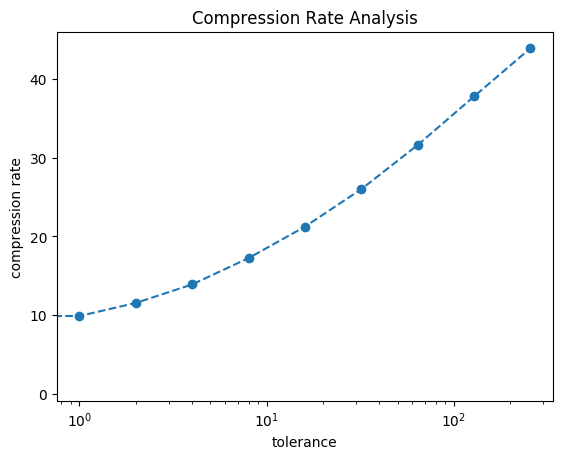
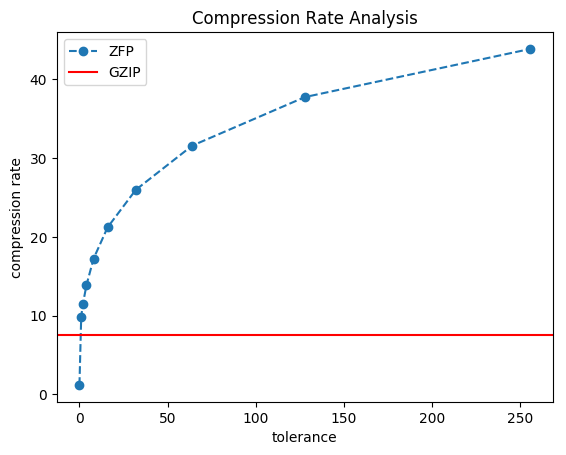
Add GZIP compression rate as reference

diff --git a/exercise10/mpi_compression/compression_rates.py b/exercise10/mpi_compression/compression_rates.py
@@ -11,8 +11,10 @@ with open('compression_rates.txt') as f:
         if line.startswith('Compression rate'):
             compression_rates.append(float(line.split(': ')[1].split('\n')[0]))
 
-plt.semilogx(tolerances, compression_rates, 'o--')
+plt.plot(tolerances, compression_rates, 'o--', label='ZFP')
 plt.xlabel('tolerance')
 plt.ylabel('compression rate')
+plt.axhline(128 / 17, color='r', label='GZIP')
+plt.legend(loc=0)
 plt.title('Compression Rate Analysis')
 plt.savefig('compression_rates.png', bbox_inches='tight')
